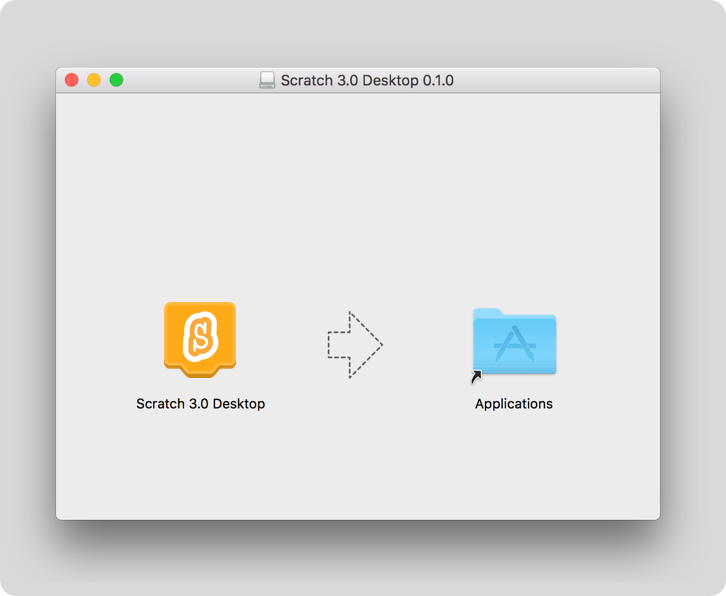
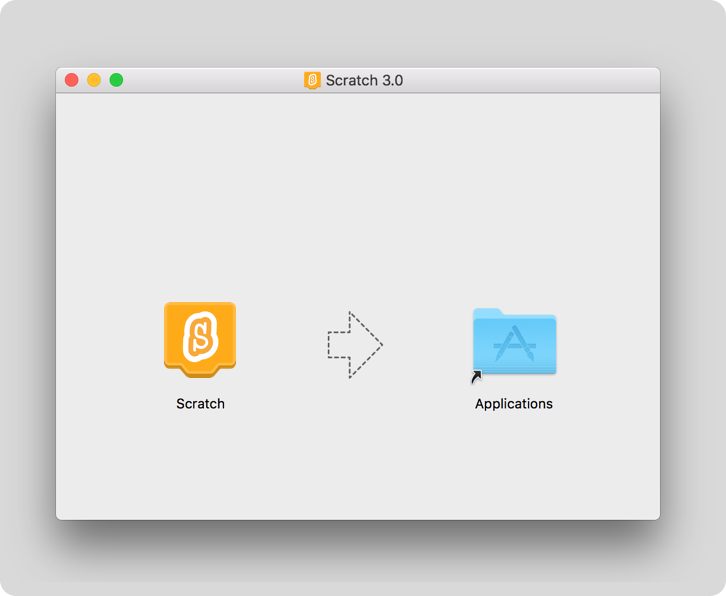
finish renaming 'Scratch Desktop' to 'Scratch'
- adjust macOS installation instructions to mention "Scratch" instead of
  "Scratch Desktop"
- edit the DMG screenshot to fix the app name, DMG title, and DMG icon

Changed region(s): [[0.3333, 0.1208, 0.6364, 0.151], [0.1818, 0.6644, 0.3636, 0.6946]]

diff --git a/src/components/install-scratch/install-scratch.jsx b/src/components/install-scratch/install-scratch.jsx
@@ -114,7 +114,7 @@ const InstallScratch = ({
                         <span className="step-description">
                             {currentOS === OS_ENUM.WINDOWS ?
                                 <FormattedMessage id="download.winMoveToApplications" /> :
-                                <FormattedMessage id="download.macMoveToApplications" />
+                                <FormattedMessage id="download.macMoveAppToApplications" />
                             }
                         </span>
 
